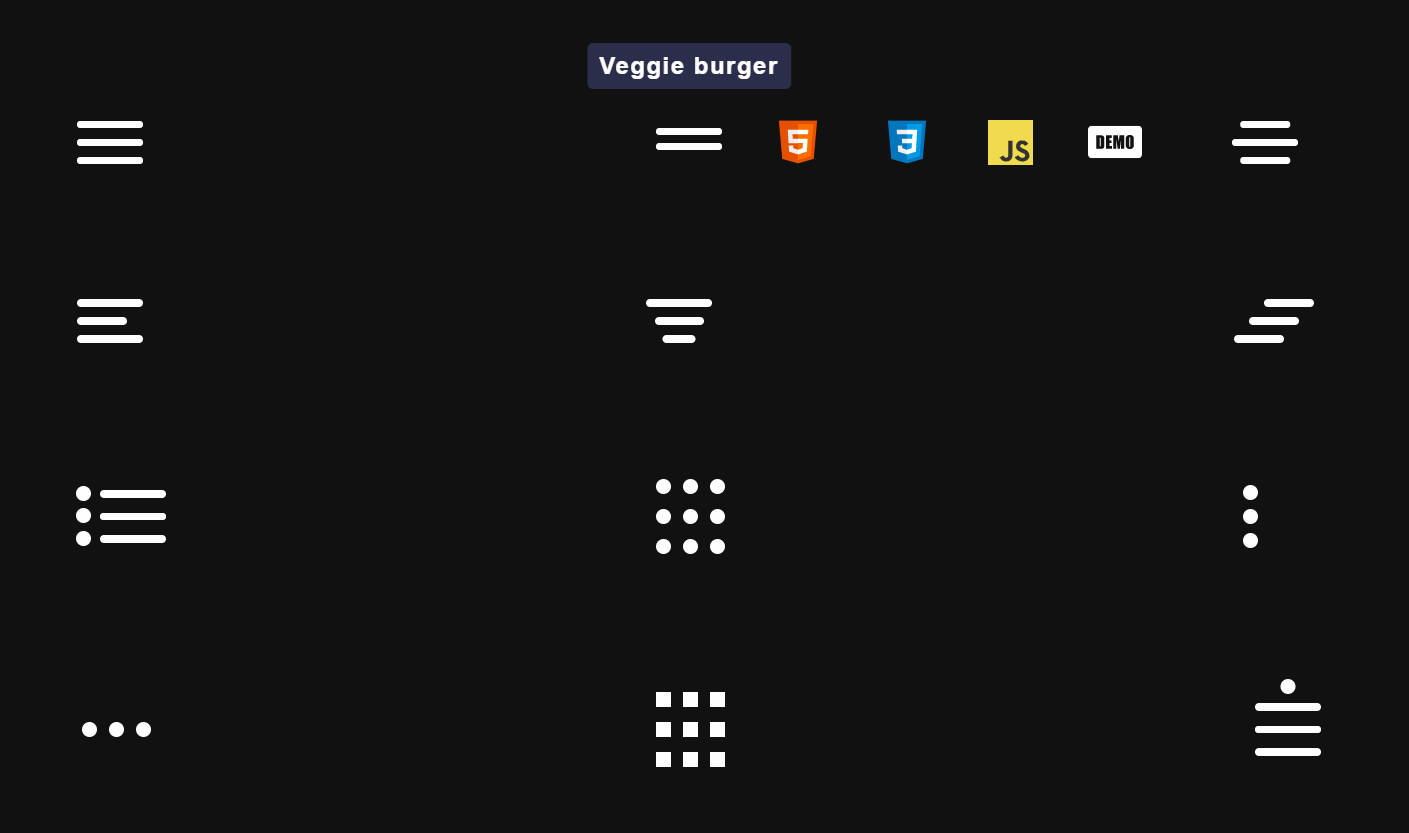
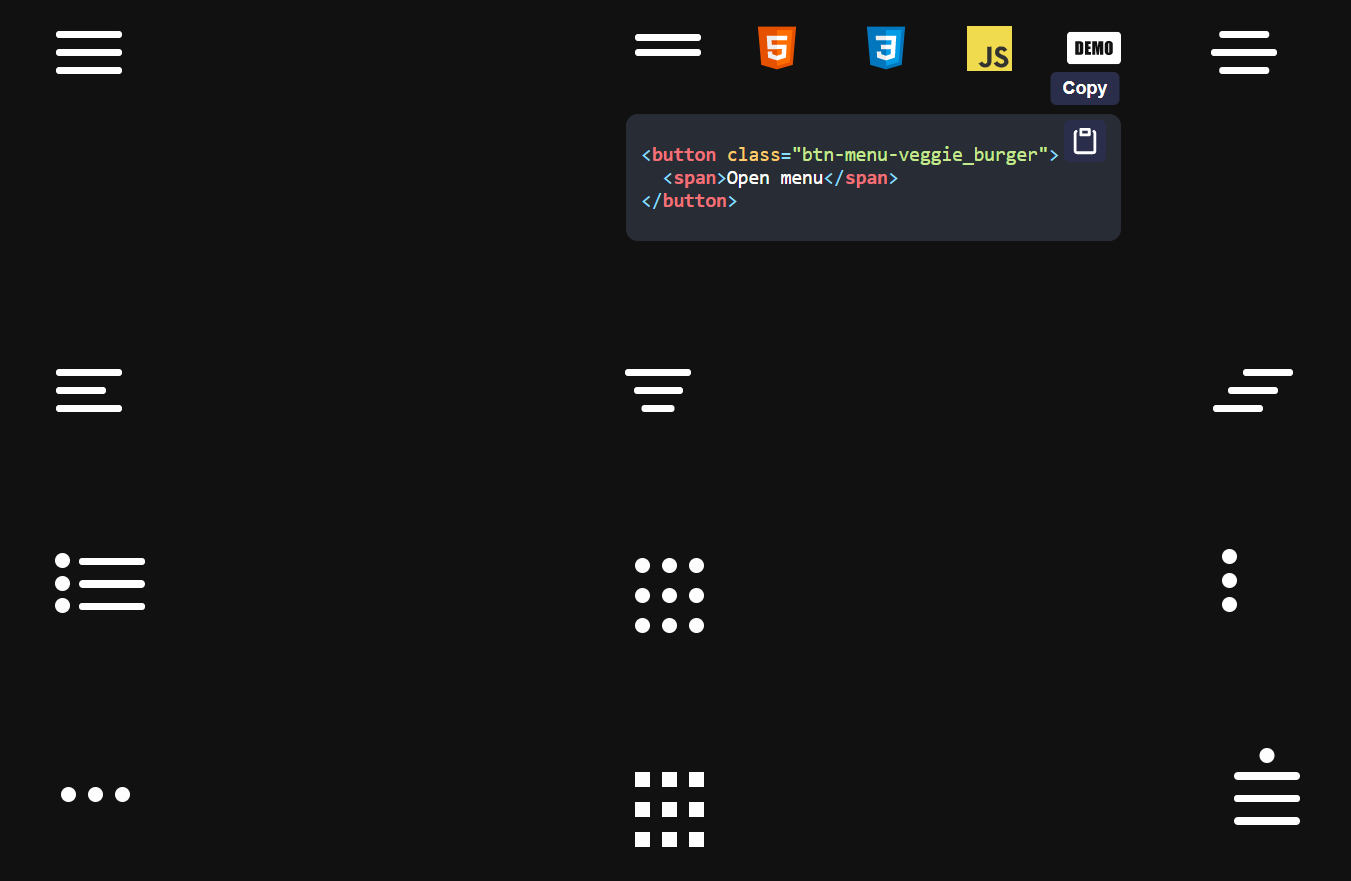
Подготовлена база для создание css-кода для демонстрации

diff --git a/app/js/app.js b/app/js/app.js
@@ -1,1 +1,1 @@
-var factory;factory=function(){"use strict";var e='\n<div class="demo-code {{ code-type }}">\n\t<div class="demo-code__container">\n\t\t<div class="demo-code__content">\n\t\t\t{{ demo-code-type }}\n\t\t</div>\n\t\t<div class="demo-code__container-back-btn copy">\n\t\t\t<div class="demo-code__container-back-btn-wrapper">\n\t\t\t\t<h4 class="demo-code__container-back-btn-title">Copy</h4>\n\t\t\t\t<button type="button" class="demo-code__container-btn-copy">\n\t\t\t\t\t<svg fill="#ffffff" height="20" viewBox="0 0 16 16" width="20">\n\t\t\t\t\t\t<path d="M5.75 1a.75.75 0 00-.75.75v3c0 .414.336.75.75.75h4.5a.75.75 0 00.75-.75v-3a.75.75 0 00-.75-.75h-4.5zm.75 3V2.5h3V4h-3zm-2.874-.467a.75.75 0 00-.752-1.298A1.75 1.75 0 002 3.75v9.5c0 .966.784 1.75 1.75 1.75h8.5A1.75 1.75 0 0014 13.25v-9.5a1.75 1.75 0 00-.874-1.515.75.75 0 10-.752 1.298.25.25 0 01.126.217v9.5a.25.25 0 01-.25.25h-8.5a.25.25 0 01-.25-.25v-9.5a.25.25 0 01.126-.217z"></path>\n\t\t\t\t\t</svg>\n\t\t\t\t</button>\n\t\t\t</div>\n\t\t</div>\n\t</div>\n</div>\n',t="\n\t".concat(e.replace(/{{ demo-code-type }}/,'\n<pre>\n\t<code class="language-html language">\n{{ demo-code }}\n\t</code>\n</pre>\n'),"\n"),n="\n\t".concat(e.replace(/{{ demo-code-type }}/,'\n<pre>\n\t<code class="language-css language">\n{{ demo-code }}\n\t</code>\n</pre>\n'),"\n"),c="\n\t".concat(e.replace(/{{ demo-code-type }}/,'\n<pre>\n\t<code class="language-javascript language">\n{{ demo-code }}\n\t</code>\n</pre>\n'),"\n"),o="\n\t".concat(e.replace(/{{ demo-code-type }}/,"\n\n"),"\n"),a={html:"".concat(t),css:"".concat(n),js:"".concat(c),demo:"".concat(o)},r=function createTempHtml_ForDemo(e,t){e=hljs.highlight(e,{language:"xml"}).value;var n=a[t];return n=(n=n.replace(/{{ demo-code }}/,e)).replace(/{{ code-type }}/,"code-".concat(t))},i=function createTempCss_ForDemo(e,t){var n=e.closest(".example-item-active").querySelector(".example__item-content-btn").classList[1],c=a[t];c=c.replace(/{{ code-type }}/,"code-".concat(t));var o=buildReadyTemp_Hljs('\n.{{ name-btn }} {\n\tpadding: 17px 5px;\n}\n\n.{{ name-btn }} span {\n\tposition: relative;\n\tdisplay: block;\n\twidth: 44px;\n\theight: 5px;\n\tborder-radius: 4px;\n\tbackground-color: #fefefe;\n}\n\n.{{ name-btn }} span::before,\n.{{ name-btn }} span::after {\n\tposition: absolute;\n\tcontent: "";\n}\n',[/{{ name-btn }}/g,/\t/g],[n,"  "],"css");return c=c.replace(/{{ demo-code }}/,o)},l=function createTempJs_ForDemo(e,t){var n=e.closest(".example-item-active").querySelector(".example__item-content-btn").classList[1],c=a[t];c=c.replace(/{{ code-type }}/,"code-".concat(t));var o=buildReadyTemp_Hljs('\nconst menuBtn = document.querySelector(".{{ menu-btn-class }}");\n\nmenuBtn.addEventListener("click", () => {\n\tmenuBtn.classList.toggle("{{ menu-btn-class }}--active");\n});\n',[/{{ menu-btn-class }}/g,/\t/g],[n,"  "],"javascript");return c=c.replace(/{{ demo-code }}/,o)};function buildReadyTemp_Hljs(e,t,n,c){var o=e.replace(t[0],n[0]);return o=o.replace(t[1],n[1]),o=hljs.highlight(o,{language:c}).value}var d=function copyToClipboard(){var e=event.currentTarget.closest(".demo-code__container").querySelector(".language"),t=event.currentTarget.closest(".demo-code__container-back-btn-wrapper").querySelector("h4");!function changeTitleBtnCopy(e,t,n){e.innerHTML=t,setTimeout((function(){e.innerHTML=n}),1500)}(t,"Copied",t.innerHTML);var n=document.createElement("textarea");n.textContent=e.textContent.trim(),document.body.appendChild(n),n.select(),document.execCommand("copy"),document.body.removeChild(n)};hljs.highlightAll();var s=document.querySelector(".example"),m=s.querySelector(".example__items"),u=document.querySelector(".open-menu-temp");function createBaseTemp(e,t,n,c){var o=e(t,n);c.insertAdjacentHTML("beforeend","\n\t\t".concat(o,"\n\t\t").trim())}var p=function showsCodeForDemo(){var e=event.currentTarget.dataset.typeCode,t=event.currentTarget.closest(".example-item-active");if(t.querySelector(".code-".concat(e)))return t.querySelector(".code-".concat(e)).remove(),void m.classList.remove("example-items-active");t.querySelector(".demo-code")&&t.querySelector(".demo-code").remove(),"html"===e?createBaseTemp(r,function retrievesTempPressedBtnOpenDemo(e){var t=e.closest(".example-item-active").querySelector(".example__item-content-wrapper-btn").cloneNode(1),n=t.querySelector(".example__item-content-btn");return n.classList.remove("example__item-content-btn"),n.removeAttribute("data-type"),(t=t.innerHTML.trim()).replace(/\t/g,"  ")}(event.currentTarget),e,t):"css"===e?createBaseTemp(i,event.currentTarget,e,t):"js"===e&&(createBaseTemp(l,event.currentTarget,e,t),function checksIfBlockIsOutOfWindow(e){var t=window.innerWidth,n=document.querySelector("body").clientWidth,c=document.documentElement.scrollWidth,o=c-(c-n),a=e.getBoundingClientRect();if(a.x+a.width>=o){var r=c-t+t-n;e.closest(".demo-code").style.left="-".concat(r+50,"px")}}(t.querySelector(".language-javascript"))),function addEvent_CopyText(e){e.addEventListener("click",d)}(t.querySelector(".demo-code__container-btn-copy")),m.classList.add("example-items-active")},v=function closeMenuDemo(){var e=s.querySelector(".example-item-active");e&&(function closeCodeForDemo(e){m.classList.remove("example-items-active");var t=e.querySelector(".demo-code");t&&t.remove()}(e),e.classList.remove("example-item-active"),e.querySelector(".open-menu").remove())},y=function openMenuDemo(e){v(),e.append(u.content.cloneNode(1)),e.classList.add("example-item-active");var t=e.querySelector(".open-menu");!function changeTempOpenMenu(e){e.classList.add("open-menu-disable"),setTimeout((function(){e.classList.remove("open-menu-disable"),e.classList.add("open-menu-active")}))}(t),function addEventClickShowCode(e){e.querySelectorAll(".open-menu__content-item-btn").forEach((function(e){e.addEventListener("click",p)}))}(t)},g=function changeMenuDemo(){event.currentTarget.dataset.type;var e=event.currentTarget.closest(".example__item");e.classList.contains("example-item-active")?v():y(e)};document.querySelectorAll(".example__item").forEach((function(e){e.querySelector(".example__item-content-btn").addEventListener("click",g)}))},"function"==typeof define&&define.amd?define(factory):factory();
+var factory;factory=function(){"use strict";var e='\n<div class="demo-code {{ code-type }}">\n\t<div class="demo-code__container">\n\t\t<div class="demo-code__content">\n\t\t\t{{ demo-code-type }}\n\t\t</div>\n\t\t<div class="demo-code__container-back-btn copy">\n\t\t\t<div class="demo-code__container-back-btn-wrapper">\n\t\t\t\t<h4 class="demo-code__container-back-btn-title">Copy</h4>\n\t\t\t\t<button type="button" class="demo-code__container-btn-copy">\n\t\t\t\t\t<svg fill="#ffffff" height="20" viewBox="0 0 16 16" width="20">\n\t\t\t\t\t\t<path d="M5.75 1a.75.75 0 00-.75.75v3c0 .414.336.75.75.75h4.5a.75.75 0 00.75-.75v-3a.75.75 0 00-.75-.75h-4.5zm.75 3V2.5h3V4h-3zm-2.874-.467a.75.75 0 00-.752-1.298A1.75 1.75 0 002 3.75v9.5c0 .966.784 1.75 1.75 1.75h8.5A1.75 1.75 0 0014 13.25v-9.5a1.75 1.75 0 00-.874-1.515.75.75 0 10-.752 1.298.25.25 0 01.126.217v9.5a.25.25 0 01-.25.25h-8.5a.25.25 0 01-.25-.25v-9.5a.25.25 0 01.126-.217z"></path>\n\t\t\t\t\t</svg>\n\t\t\t\t</button>\n\t\t\t</div>\n\t\t</div>\n\t</div>\n</div>\n',t="\n\t".concat(e.replace(/{{ demo-code-type }}/,'\n<pre>\n\t<code class="language-html language">\n{{ demo-code }}\n\t</code>\n</pre>\n'),"\n"),n="\n\t".concat(e.replace(/{{ demo-code-type }}/,'\n<pre>\n\t<code class="language-css language">\n{{ demo-code }}\n\t</code>\n</pre>\n'),"\n"),c="\n\t".concat(e.replace(/{{ demo-code-type }}/,'\n<pre>\n\t<code class="language-javascript language">\n{{ demo-code }}\n\t</code>\n</pre>\n'),"\n"),o="\n\t".concat(e.replace(/{{ demo-code-type }}/,"\n\n"),"\n"),a={html:"".concat(t),css:"".concat(n),js:"".concat(c),demo:"".concat(o)},r=function createTempHtml_ForDemo(e,t){e=hljs.highlight(e,{language:"xml"}).value;var n=a[t];return n=(n=n.replace(/{{ demo-code }}/,e)).replace(/{{ code-type }}/,"code-".concat(t))},l=function createTempCss_ForDemo(e,t){var n=e.closest(".example-item-active").querySelector(".example__item-content-btn").classList[1],c=function pullsStylesBtn(e){var t={before:{},after:{}};return t.padding=getComputedStyle(e).getPropertyValue("padding"),t}(e.closest(".example-item-active").querySelector(".example__item-content-btn")),o=a[t];o=o.replace(/{{ code-type }}/,"code-".concat(t));var r=buildReadyTemp_Hljs(function buildCss_FromTemp(e,t){return e.replace(/{{ padding-value }}/,"".concat(t.padding))}('\n.{{ name-btn }} {\n\tpadding: {{ padding-value }};\n}\n\n.{{ name-btn }} span {\n\tposition: relative;\n\tdisplay: block;\n\twidth: 44px;\n\theight: 5px;\n\tborder-radius: 4px;\n\tbackground-color: #fefefe;\n}\n\n.{{ name-btn }} span::before,\n.{{ name-btn }} span::after {\n\tposition: absolute;\n\tcontent: "";\n}\n',c),[/{{ name-btn }}/g,/\t/g],[n,"  "],"css");return o=o.replace(/{{ demo-code }}/,r)},i=function createTempJs_ForDemo(e,t){var n=e.closest(".example-item-active").querySelector(".example__item-content-btn").classList[1],c=a[t];c=c.replace(/{{ code-type }}/,"code-".concat(t));var o=buildReadyTemp_Hljs('\nconst menuBtn = document.querySelector(".{{ menu-btn-class }}");\n\nmenuBtn.addEventListener("click", () => {\n\tmenuBtn.classList.toggle("{{ menu-btn-class }}--active");\n});\n',[/{{ menu-btn-class }}/g,/\t/g],[n,"  "],"javascript");return c=c.replace(/{{ demo-code }}/,o)};function buildReadyTemp_Hljs(e,t,n,c){var o=e.replace(t[0],n[0]);return o=o.replace(t[1],n[1]),o=hljs.highlight(o,{language:c}).value}var d=function copyToClipboard(){var e=event.currentTarget.closest(".demo-code__container").querySelector(".language"),t=event.currentTarget.closest(".demo-code__container-back-btn-wrapper").querySelector("h4");!function changeTitleBtnCopy(e,t,n){e.innerHTML=t,setTimeout((function(){e.innerHTML=n}),1500)}(t,"Copied",t.innerHTML);var n=document.createElement("textarea");n.textContent=e.textContent.trim(),document.body.appendChild(n),n.select(),document.execCommand("copy"),document.body.removeChild(n)};hljs.highlightAll();var m=document.querySelector(".example"),s=m.querySelector(".example__items"),u=document.querySelector(".open-menu-temp");function createBaseTemp(e,t,n,c){var o=e(t,n);c.insertAdjacentHTML("beforeend","\n\t\t".concat(o,"\n\t\t").trim())}var p=function showsCodeForDemo(){var e=event.currentTarget.dataset.typeCode,t=event.currentTarget.closest(".example-item-active");if(t.querySelector(".code-".concat(e)))return t.querySelector(".code-".concat(e)).remove(),void s.classList.remove("example-items-active");t.querySelector(".demo-code")&&t.querySelector(".demo-code").remove(),"html"===e?createBaseTemp(r,function retrievesTempPressedBtnOpenDemo(e){var t=e.closest(".example-item-active").querySelector(".example__item-content-wrapper-btn").cloneNode(1),n=t.querySelector(".example__item-content-btn");return n.classList.remove("example__item-content-btn"),n.removeAttribute("data-type"),(t=t.innerHTML.trim()).replace(/\t/g,"  ")}(event.currentTarget),e,t):"css"===e?createBaseTemp(l,event.currentTarget,e,t):"js"===e&&(createBaseTemp(i,event.currentTarget,e,t),function checksIfBlockIsOutOfWindow(e){var t=window.innerWidth,n=document.querySelector("body").clientWidth,c=document.documentElement.scrollWidth,o=c-(c-n),a=e.getBoundingClientRect();if(a.x+a.width>=o){var r=c-t+t-n;e.closest(".demo-code").style.left="-".concat(r+50,"px")}}(t.querySelector(".language-javascript"))),function addEvent_CopyText(e){e.addEventListener("click",d)}(t.querySelector(".demo-code__container-btn-copy")),s.classList.add("example-items-active")},v=function closeMenuDemo(){var e=m.querySelector(".example-item-active");e&&(function closeCodeForDemo(e){s.classList.remove("example-items-active");var t=e.querySelector(".demo-code");t&&t.remove()}(e),e.classList.remove("example-item-active"),e.querySelector(".open-menu").remove())},y=function openMenuDemo(e){v(),e.append(u.content.cloneNode(1)),e.classList.add("example-item-active");var t=e.querySelector(".open-menu");!function changeTempOpenMenu(e){e.classList.add("open-menu-disable"),setTimeout((function(){e.classList.remove("open-menu-disable"),e.classList.add("open-menu-active")}))}(t),function addEventClickShowCode(e){e.querySelectorAll(".open-menu__content-item-btn").forEach((function(e){e.addEventListener("click",p)}))}(t)},g=function changeMenuDemo(){event.currentTarget.dataset.type;var e=event.currentTarget.closest(".example__item");e.classList.contains("example-item-active")?v():y(e)};document.querySelectorAll(".example__item").forEach((function(e){e.querySelector(".example__item-content-btn").addEventListener("click",g)}))},"function"==typeof define&&define.amd?define(factory):factory();

diff --git a/src/js/createTemp.js b/src/js/createTemp.js
@@ -2,6 +2,7 @@ import {
 	ANIMATE,
 	TABLE,
 	COMMON_CSS,
+	GET_REQUESTED_CSS,
 	COMMON_JS
 } from "./constants.js";
 
@@ -34,13 +35,25 @@ export const retrievesTempPressedBtnOpenDemo = (pressedBtn) => {
 };
 
 
+const buildCss_FromTemp = (temp, foundCss) => {
+	const blankCss = temp.replace(/{{ padding-value }}/, `${foundCss.padding}`);
+
+	return blankCss;
+};
+
 export const createTempCss_ForDemo = (tempBtn, typeTempCode) => {
 	const nameBtn = tempBtn.closest('.example-item-active').querySelector(".example__item-content-btn").classList[1];
+
+	const foundCss = pullsStylesBtn(
+		tempBtn.closest('.example-item-active').querySelector(".example__item-content-btn")
+	);
 
 	let newTempCodeForDemo = TABLE[typeTempCode];
 	newTempCodeForDemo = newTempCodeForDemo.replace(/{{ code-type }}/, `code-${typeTempCode}`);
 
-	let readyCss = buildReadyTemp_Hljs(COMMON_CSS, [/{{ name-btn }}/g, /\t/g], [nameBtn, "  "], "css");
+	const blankCss = buildCss_FromTemp(COMMON_CSS, foundCss);
+
+	let readyCss = buildReadyTemp_Hljs(blankCss, [/{{ name-btn }}/g, /\t/g], [nameBtn, "  "], "css");
 
 	newTempCodeForDemo = newTempCodeForDemo.replace(/{{ demo-code }}/, readyCss);
 
@@ -88,4 +101,18 @@ export function checksIfBlockIsOutOfWindow(block) {
 
 		block.closest(".demo-code").style.left = `-${positionLeft_ToExitWindow + 50}px`;
 	};
+};
+
+
+function pullsStylesBtn(btn) {
+	/* Находит все стили кнопки (по обьекту "GET_REQUESTED_CSS") и возвращает обьект.  */
+
+	const foundCss = {
+		"before": {},
+		"after": {}
+	};
+
+	foundCss["padding"] = getComputedStyle(btn).getPropertyValue("padding");
+
+	return foundCss;
 };

diff --git a/src/js/app.js b/src/js/app.js
@@ -27,11 +27,12 @@ function createBaseTemp(createFun, tempBtn, typeCode, currentItem) {
 	const tempMenuIconBtn = createFun(
 		tempBtn,
 		typeCode
-		);
+	);
 
 	currentItem.insertAdjacentHTML("beforeend", `
 		${tempMenuIconBtn}
-		`.trim());
+		`.trim()
+	);
 };
 
 
@@ -56,7 +57,7 @@ const showsCodeForDemo = () => {
 			retrievesTempPressedBtnOpenDemo(event.currentTarget),
 			typeCode,
 			currentItem
-			);
+		);
 
 	} else if ( typeCode === "css" ) {
 		createBaseTemp(createTempCss_ForDemo, event.currentTarget, typeCode, currentItem);
@@ -67,7 +68,7 @@ const showsCodeForDemo = () => {
 
 	} else if ( typeCode === "demo" ) {
 		console.log(true);
-	}
+	};
 
 	addEvent_CopyText(currentItem.querySelector(".demo-code__container-btn-copy"));
 	blockExampleItems.classList.add("example-items-active");

diff --git a/src/js/constants.js b/src/js/constants.js
@@ -18,7 +18,7 @@ export const TABLE = {
 
 export const COMMON_CSS = `
 .{{ name-btn }} {
-	padding: 17px 5px;
+	padding: {{ padding-value }};
 }
 
 .{{ name-btn }} span {
@@ -36,6 +36,10 @@ export const COMMON_CSS = `
 	content: "";
 }
 `;
+
+export const GET_REQUESTED_CSS = {
+
+};
 
 export const COMMON_JS = `
 const menuBtn = document.querySelector(".{{ menu-btn-class }}");
